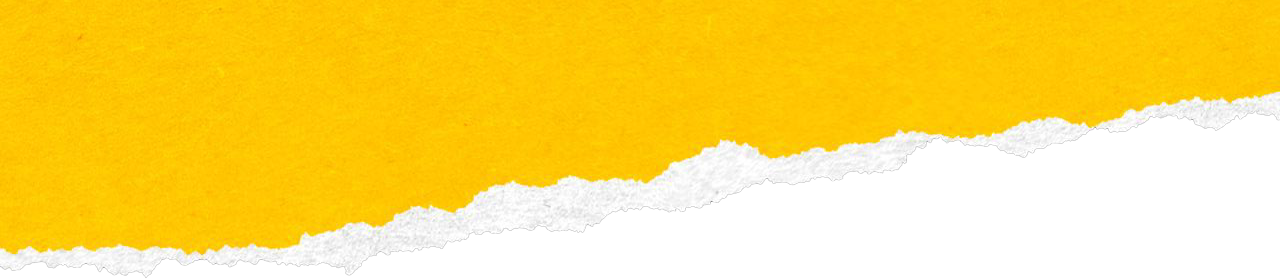
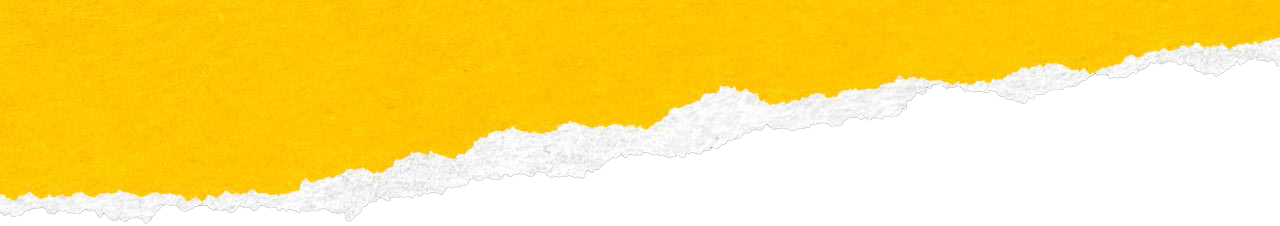
Add background images for about and product pages

Changed region(s): [[0.0, 0.1549, 1.0, 0.9602], [0.0938, 0.9602, 0.125, 0.9912]]

diff --git a/src/app/product/Product.tsx b/src/app/product/Product.tsx
@@ -1,17 +1,29 @@
 import React from 'react';
-import image from "next/image";
+
 const Product: React.FC = () => {
     return (
-      <section id="product" className="min-h-screen bg-[#0D0D0D] flex flex-col items-center pt-12 pb-20">
+      <section
+        id="product"
+        className="min-h-screen bg-[#0D0D0D] flex flex-col items-center pt-0 pb-20 relative overflow-hidden"
+        style={{
+          backgroundImage: "url('/backgrounds/AboutPage IGNITE (5).png')",
+          backgroundSize: "cover",
+          backgroundPosition: "center",
+          backgroundRepeat: "no-repeat",
+        }}
+      >
         <h2 className="text-5xl font-normal text-white mb-5 pt-16 text-center">Product</h2>
         <p className="text-center text-white text-lg max-w-2xl mb-14">
           IgniteTaxAI is an AI-powered assistant designed to streamline tax research, client communication, and compliance for tax professionals and businesses.
         </p>
         <div className="w-full max-w-5xl mx-4 rounded-2xl relative">
           {/* White shadow down right */}
-          <div className="absolute inset-0 pointer-events-none rounded-2xl"
-  
-  />
+          <div
+            className="absolute inset-0 pointer-events-none rounded-2xl"
+            style={{
+              boxShadow: "12px 12px 0 0 rgba(255,255,255,0.18)"
+            }}
+          />
           <h3 className="text-[#eaff6a] text-xl font-normal mb-6 relative z-0">Key Features:</h3>
           <div className="grid grid-cols-1 md:grid-cols-3 gap-8 relative z-0">
             {/* Feature 1 */}

diff --git a/src/app/about/AboutUs.tsx b/src/app/about/AboutUs.tsx
@@ -8,7 +8,7 @@ const AboutUs: React.FC = () => {
       <section id="about_us" className="bg-[#0D0D0D] text-gray-700 body-font min-h-screen w-screen">
           <div className="flex flex-col items-center justify-center bg-full bg-cover object-cover "
                 style={{
-                  backgroundImage: "url('/backgrounds/BG-About(2).png')",
+                  backgroundImage: "url('/backgrounds/AboutPage IGNITE (4).png')",
                   backgroundColor: "#0D0D0D", 
                   backgroundSize: "cover",
                   backgroundPosition: "center",
